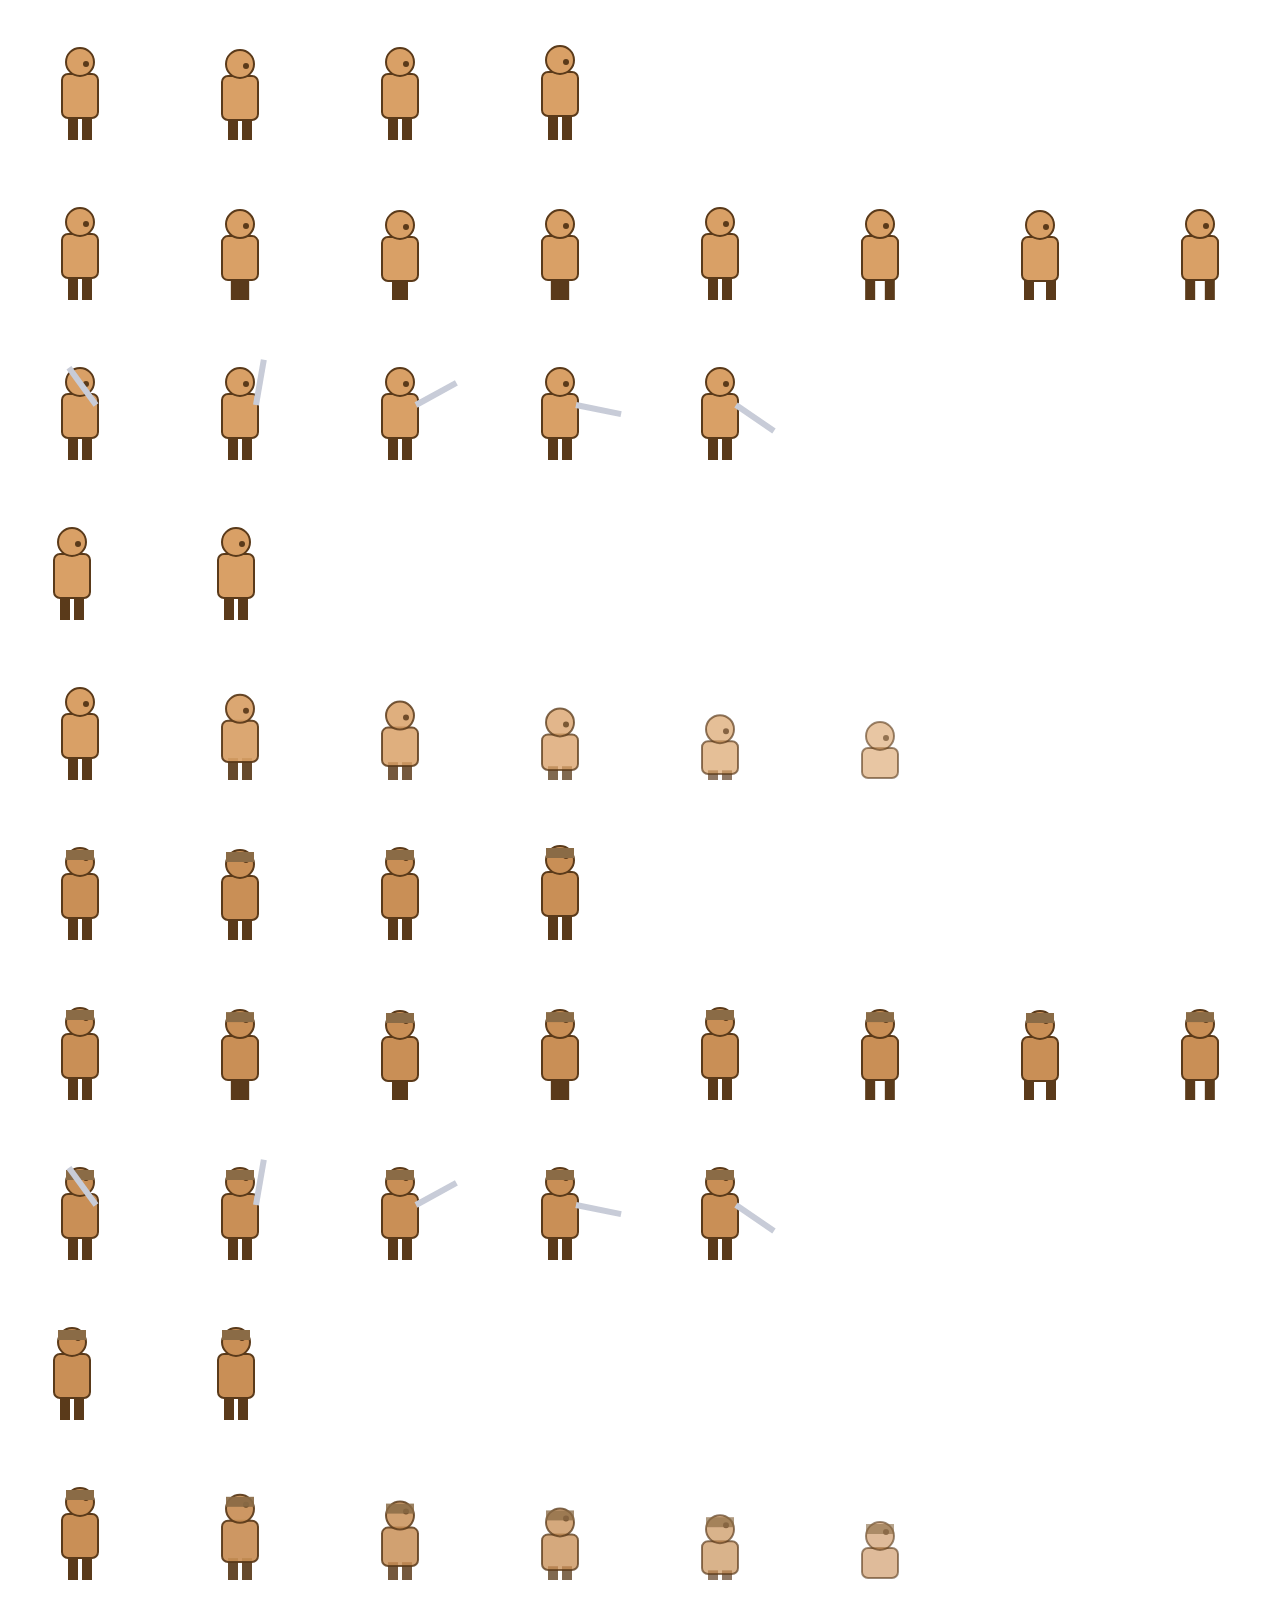
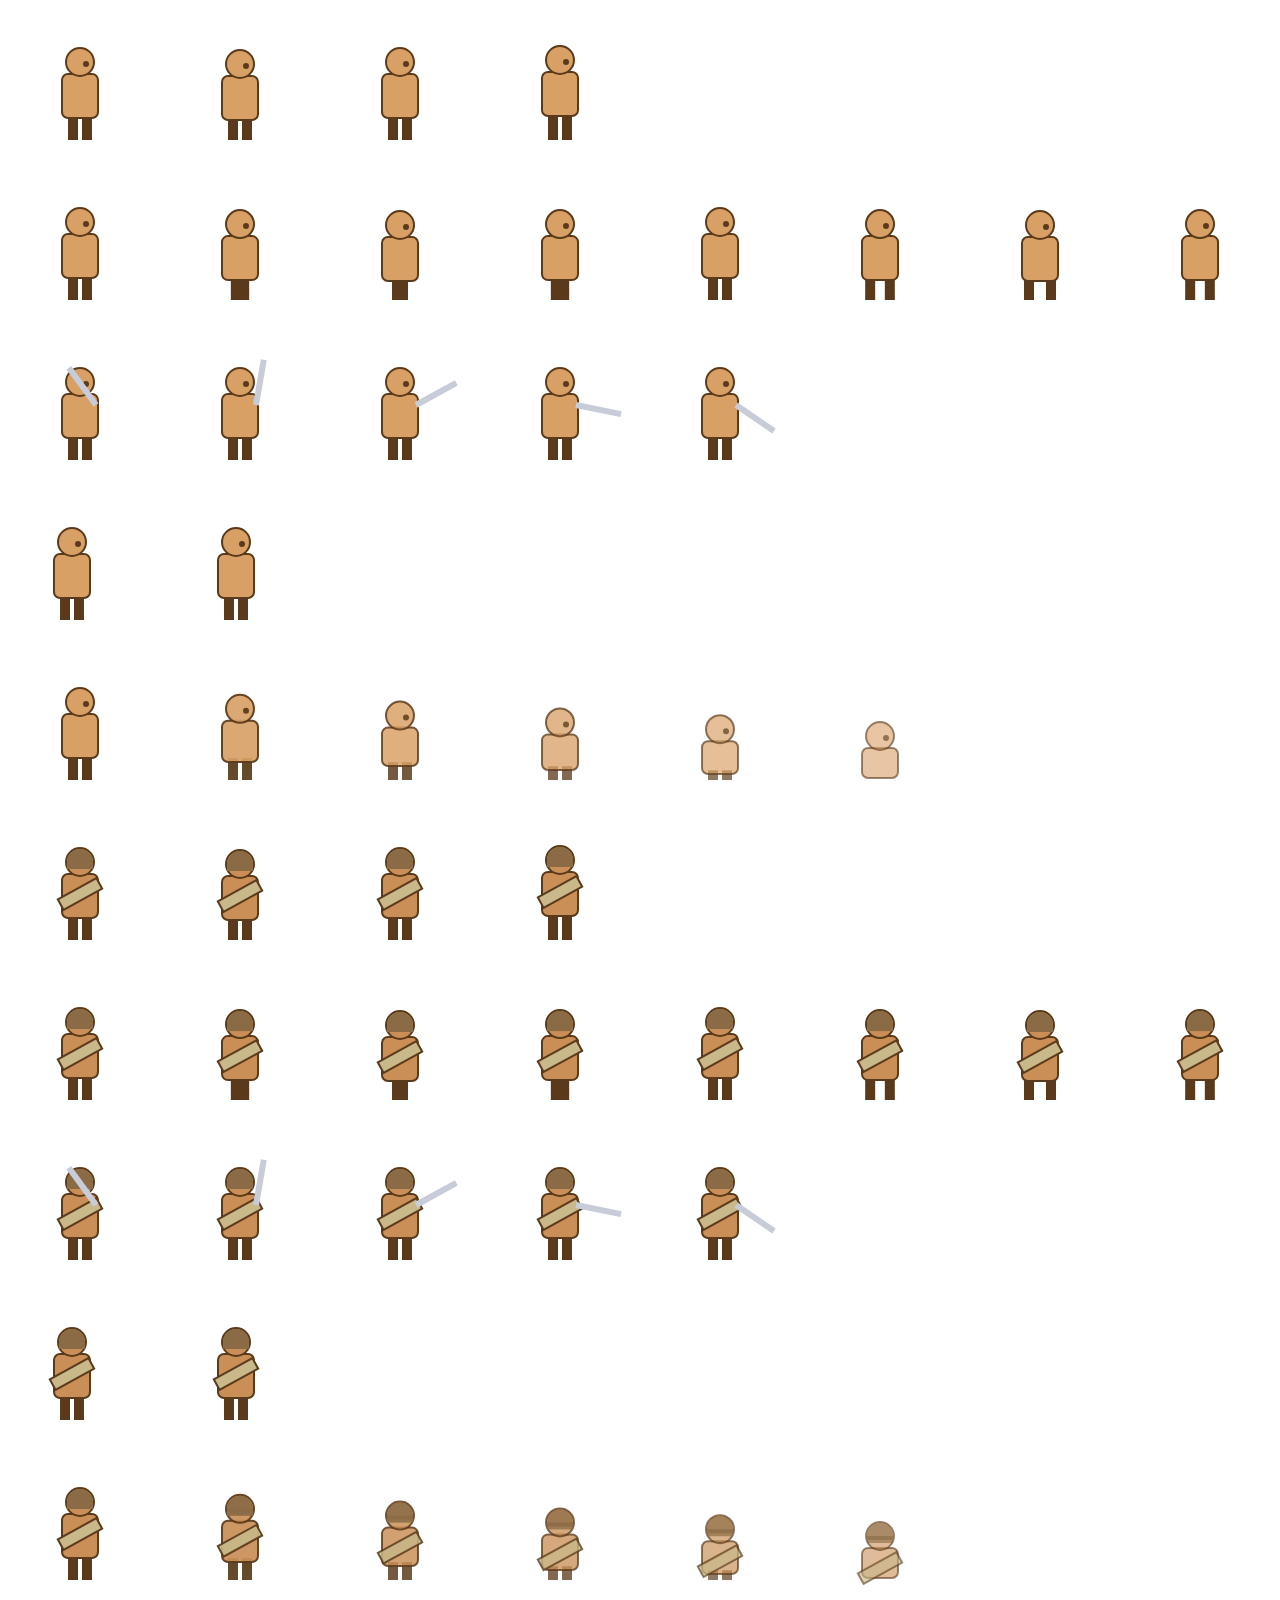
Sword swings aim analog with a wide arc; distinct up-facing sprite
Attacking felt like only two directions worked, and enemies straight
below on screen were hard to hit: aim was quantized to the 4 iso facings
(all diagonal on screen — none points screen-down), and the placeholder
up-facing art was nearly identical to the down-facing art.

- Aim now follows the exact last movement direction (8-way keyboard or
  full-analog touch stick), frozen at swing start — pressing toward an
  enemy swings exactly there, including straight down the screen
- The hit is a forgiving 110° arc (range 1.3, point-blank hits all
  around) instead of a small offset circle, via a pure inSwordArc test
- Engine-drawn slash arc VFX rotated to the true aim direction (0.2s,
  iso-squashed) so every swing shows where it lands
- Hero sheet regenerated: up-facing rows are now a clear back view
  (hood, no face, rolled map on the back) so up vs down reads instantly
- 7 arc unit tests + an e2e hitting a husk positioned straight
  screen-below at a range the old hitbox whiffed

Claude-Session: https://claude.ai/code/session_01ESxb7K51MbZsyKMsQXvS1U

diff --git a/src/game/entities/player.ts b/src/game/entities/player.ts
@@ -1,18 +1,11 @@
 import { Container, Graphics, Texture } from 'pixi.js';
-import {
-  depthOf,
-  facingFromVector,
-  worldToScreen,
-  FACING_DIRS,
-  type Facing,
-} from '../../engine/iso';
+import { depthOf, facingFromVector, worldToScreen, type Facing } from '../../engine/iso';
 import { moveCircle, type CollisionGrid } from '../../engine/collision';
 import { AnimSprite, type SpriteDef } from '../../engine/anim';
 import {
-  circlesOverlap,
   decayVelocity,
+  inSwordArc,
   knockbackVelocity,
-  meleeHitbox,
   type Combatant,
   type Hit,
 } from '../systems/combat';
@@ -26,8 +19,13 @@ const MAX_HP = 6; // half-hearts (3 hearts)
 const IFRAMES = 1.0;
 const SWORD_DAMAGE = 1;
 const SWORD_KNOCKBACK = 7;
-const SWORD_REACH = 0.7;
-const SWORD_R = 0.55;
+// Swing coverage: an arc in front of the aim direction (PLAN pillar 1 —
+// readable). Aim is the exact last movement direction, NOT quantized to the
+// 4 sprite facings, so attacking "screen-down" between facings connects.
+const SWORD_RANGE = 1.3;
+const SWORD_HALF_ARC = (110 / 2) * (Math.PI / 180);
+const SWORD_HALF_ARC_COS = Math.cos(SWORD_HALF_ARC);
+const SWORD_POINT_BLANK = 0.45;
 const HURT_TIME = 0.25;
 const RESPAWN_TIME = 1.4;
 
@@ -73,6 +71,13 @@ export class Player implements Combatant {
   private attackActive = false;
   private swingHits = new Set<Combatant>();
   private moving = false;
+  /** Exact aim (last movement direction, normalized) — finer than `facing`. */
+  private aimX = 1;
+  private aimY = 0;
+  /** Aim frozen at swing start. */
+  private swingX = 1;
+  private swingY = 0;
+  private slashShown = false;
   private prevX: number;
   private prevY: number;
 
@@ -174,6 +179,9 @@ export class Player implements Combatant {
         this.moving = dir.x !== 0 || dir.y !== 0;
         if (this.moving) {
           this.facing = facingFromVector(dir.x, dir.y);
+          const len = Math.hypot(dir.x, dir.y);
+          this.aimX = dir.x / len;
+          this.aimY = dir.y / len;
           const next = moveCircle(
             ctx.grid,
             this.x,
@@ -188,6 +196,9 @@ export class Player implements Combatant {
         if (ATTACK_KEYS.some((k) => input.justPressed(k))) {
           this.state = 'attack';
           this.attackActive = false;
+          this.slashShown = false;
+          this.swingX = this.aimX;
+          this.swingY = this.aimY;
           this.anim?.play('attack', this.facing, true);
           ctx.audio.play('swing');
         } else {
@@ -196,7 +207,13 @@ export class Player implements Combatant {
         break;
       }
       case 'attack': {
-        if (this.attackActive) this.resolveSword(ctx);
+        if (this.attackActive) {
+          if (!this.slashShown) {
+            this.slashShown = true;
+            ctx.fx.slash(this.x, this.y, this.swingX, this.swingY, SWORD_HALF_ARC);
+          }
+          this.resolveSword(ctx);
+        }
         if (!this.anim || this.anim.isDone) {
           this.state = 'normal';
           this.attackActive = false;
@@ -221,11 +238,23 @@ export class Player implements Combatant {
   }
 
   private resolveSword(ctx: PlayerCtx): void {
-    const dir = FACING_DIRS[this.facing];
-    const hb = meleeHitbox(this.x, this.y, dir, SWORD_REACH, SWORD_R);
+    const dir = { x: this.swingX, y: this.swingY };
     for (const enemy of ctx.enemies) {
       if (!enemy.alive || this.swingHits.has(enemy)) continue;
-      if (!circlesOverlap(hb.x, hb.y, hb.r, enemy.x, enemy.y, enemy.radius)) continue;
+      if (
+        !inSwordArc(
+          this.x,
+          this.y,
+          dir,
+          enemy.x,
+          enemy.y,
+          enemy.radius,
+          SWORD_RANGE,
+          SWORD_HALF_ARC_COS,
+          SWORD_POINT_BLANK,
+        )
+      )
+        continue;
       const landed = enemy.applyHit({
         damage: SWORD_DAMAGE,
         fromX: this.x,

diff --git a/tests/unit/combat.test.ts b/tests/unit/combat.test.ts
@@ -2,6 +2,7 @@ import { describe, it, expect } from 'vitest';
 import {
   circlesOverlap,
   decayVelocity,
+  inSwordArc,
   knockbackVelocity,
   meleeHitbox,
 } from '../../src/game/systems/combat';
@@ -40,6 +41,46 @@ describe('combat math', () => {
     expect(hb).toEqual({ x: 5.7, y: 5, r: 0.55 });
     const hbNE = meleeHitbox(5, 5, FACING_DIRS.NE, 0.7, 0.55);
     expect(hbNE).toEqual({ x: 5, y: 4.3, r: 0.55 });
+  });
+});
+
+describe('sword swing arc (aim is analog, not quantized to 4 facings)', () => {
+  const RANGE = 1.3;
+  const HALF_ARC_COS = Math.cos(((110 / 2) * Math.PI) / 180);
+  const POINT_BLANK = 0.45;
+  const arc = (dir: { x: number; y: number }, tx: number, ty: number, r = 0.3): boolean =>
+    inSwordArc(0, 0, dir, tx, ty, r, RANGE, HALF_ARC_COS, POINT_BLANK);
+
+  it('hits a target straight ahead within range', () => {
+    expect(arc({ x: 1, y: 0 }, 1.2, 0)).toBe(true);
+  });
+
+  it('misses beyond range', () => {
+    expect(arc({ x: 1, y: 0 }, 1.7, 0)).toBe(false);
+  });
+
+  it('hits between the 4 sprite facings — screen-down aim connects', () => {
+    // Screen-down = world (√½, √½); enemy directly there at near-max range.
+    const d = Math.SQRT1_2;
+    expect(arc({ x: d, y: d }, 0.85, 0.85)).toBe(true);
+  });
+
+  it('misses a target behind the swing', () => {
+    expect(arc({ x: 1, y: 0 }, -1.0, 0)).toBe(false);
+  });
+
+  it('misses a target far off to the side (beyond the 55° half-arc)', () => {
+    // 90° off-axis at mid range.
+    expect(arc({ x: 1, y: 0 }, 0, 1.0)).toBe(false);
+  });
+
+  it('point-blank targets hit regardless of angle', () => {
+    expect(arc({ x: 1, y: 0 }, -0.4, 0)).toBe(true); // touching, behind
+  });
+
+  it('edge of arc: ~50° off-axis still connects', () => {
+    const a = (50 * Math.PI) / 180;
+    expect(arc({ x: 1, y: 0 }, Math.cos(a), Math.sin(a))).toBe(true);
   });
 });
 

diff --git a/src/engine/fx.ts b/src/engine/fx.ts
@@ -12,7 +12,7 @@ export class Fx {
   private shakeTimer = 0;
   private shakeDuration = 0;
   private shakeAmp = 0;
-  private sparks: { g: Graphics; life: number }[] = [];
+  private sparks: { g: Container; life: number }[] = [];
 
   hitstop(seconds = 0.06): void {
     this.hitstopTimer = Math.max(this.hitstopTimer, seconds);
@@ -22,6 +22,36 @@ export class Fx {
     this.shakeAmp = Math.max(this.shakeAmp, amplitude);
     this.shakeDuration = duration;
     this.shakeTimer = Math.max(this.shakeTimer, duration);
+  }
+
+  /**
+   * Sword-swing arc oriented along the world-space aim direction, drawn as a
+   * screen-space iso-squashed sweep so the player can read exactly where the
+   * hit lands (placeholder until the Phase 7 slash VFX).
+   */
+  slash(wx: number, wy: number, dirX: number, dirY: number, halfArcRad: number): void {
+    const wrap = new Container();
+    const g = new Graphics();
+    // In un-squashed circle space the screen angle of world dir (dx,dy) is
+    // atan2(dx+dy, dx-dy); the wrapper's y-scale applies the iso squash.
+    const angle = Math.atan2(dirX + dirY, dirX - dirY);
+    g.arc(0, 0, 86, angle - halfArcRad, angle + halfArcRad).stroke({
+      width: 14,
+      color: 0xfff2b0,
+      alpha: 0.85,
+    });
+    g.arc(0, 0, 70, angle - halfArcRad * 0.8, angle + halfArcRad * 0.8).stroke({
+      width: 6,
+      color: 0xffffff,
+      alpha: 0.9,
+    });
+    wrap.scale.y = 0.5;
+    wrap.addChild(g);
+    const s = worldToScreen(wx, wy);
+    wrap.position.set(s.x, s.y - 24);
+    wrap.zIndex = wx + wy + 0.02;
+    this.layer.addChild(wrap);
+    this.sparks.push({ g: wrap, life: 0.2 });
   }
 
   spark(wx: number, wy: number, color = 0xfff2b0): void {

diff --git a/tests/e2e/combat.spec.ts b/tests/e2e/combat.spec.ts
@@ -97,6 +97,36 @@ test('sword kills a husk in three hits and loot drops', async ({ page }) => {
   expect(after.shards).toBeGreaterThan(0);
 });
 
+test('sword hits an enemy directly below on screen (between the 4 facings)', async ({ page }) => {
+  await bootGame(page);
+  // Enemy straight screen-down from the player = world (+d,+d). At 0.85
+  // tiles diagonal this was a whiff before analog aim + arc swings.
+  await page.evaluate(() => {
+    const e = window.__game!.getEnemies()[0]!;
+    window.__game!.teleport!(e.x - 0.85, e.y - 0.85);
+  });
+  const hp0 = await page.evaluate(() => window.__game!.getEnemies()[0]!.hp);
+
+  // Face screen-down (ArrowDown), then swing. Retry — the husk patrols.
+  for (let i = 0; i < 8; i++) {
+    await page.evaluate(() => {
+      const e = window.__game!.getEnemies()[0];
+      if (e) window.__game!.teleport!(e.x - 0.85, e.y - 0.85);
+    });
+    await page.keyboard.down('ArrowDown');
+    await page.waitForTimeout(120);
+    await page.keyboard.up('ArrowDown');
+    await page.keyboard.down('Space');
+    await page.waitForTimeout(150);
+    await page.keyboard.up('Space');
+    await page.waitForTimeout(350);
+    const hp = await page.evaluate(() => window.__game!.getEnemies()[0]?.hp ?? 0);
+    if (hp < hp0) break;
+  }
+  const hp = await page.evaluate(() => window.__game!.getEnemies()[0]?.hp ?? 0);
+  expect(hp).toBeLessThan(hp0);
+});
+
 test('husk telegraphs, then hits: player loses hp and gets i-frames', async ({ page }) => {
   await bootGame(page);
   const before = await page.evaluate(() => window.__game!.getPlayer());

diff --git a/src/game/systems/combat.ts b/src/game/systems/combat.ts
@@ -58,3 +58,31 @@ export function meleeHitbox(
 ): { x: number; y: number; r: number } {
   return { x: x + dir.x * reach, y: y + dir.y * reach, r };
 }
+
+/**
+ * Sword-swing arc test: does a swing from (ax,ay) aimed along `dir`
+ * (normalized) reach a target circle at (tx,ty)? Targets inside the
+ * point-blank ring hit regardless of angle; beyond it they must be within
+ * the arc's half-angle of the aim direction. This replaces the old single
+ * offset circle so aiming at any angle (including screen-down, between the
+ * four sprite facings) connects.
+ */
+export function inSwordArc(
+  ax: number,
+  ay: number,
+  dir: Vec2,
+  tx: number,
+  ty: number,
+  targetR: number,
+  range: number,
+  halfArcCos: number,
+  pointBlank: number,
+): boolean {
+  const ex = tx - ax;
+  const ey = ty - ay;
+  const dist = Math.hypot(ex, ey);
+  if (dist > range + targetR) return false;
+  if (dist <= pointBlank + targetR) return true;
+  const dot = (ex * dir.x + ey * dir.y) / dist;
+  return dot >= halfArcCos;
+}